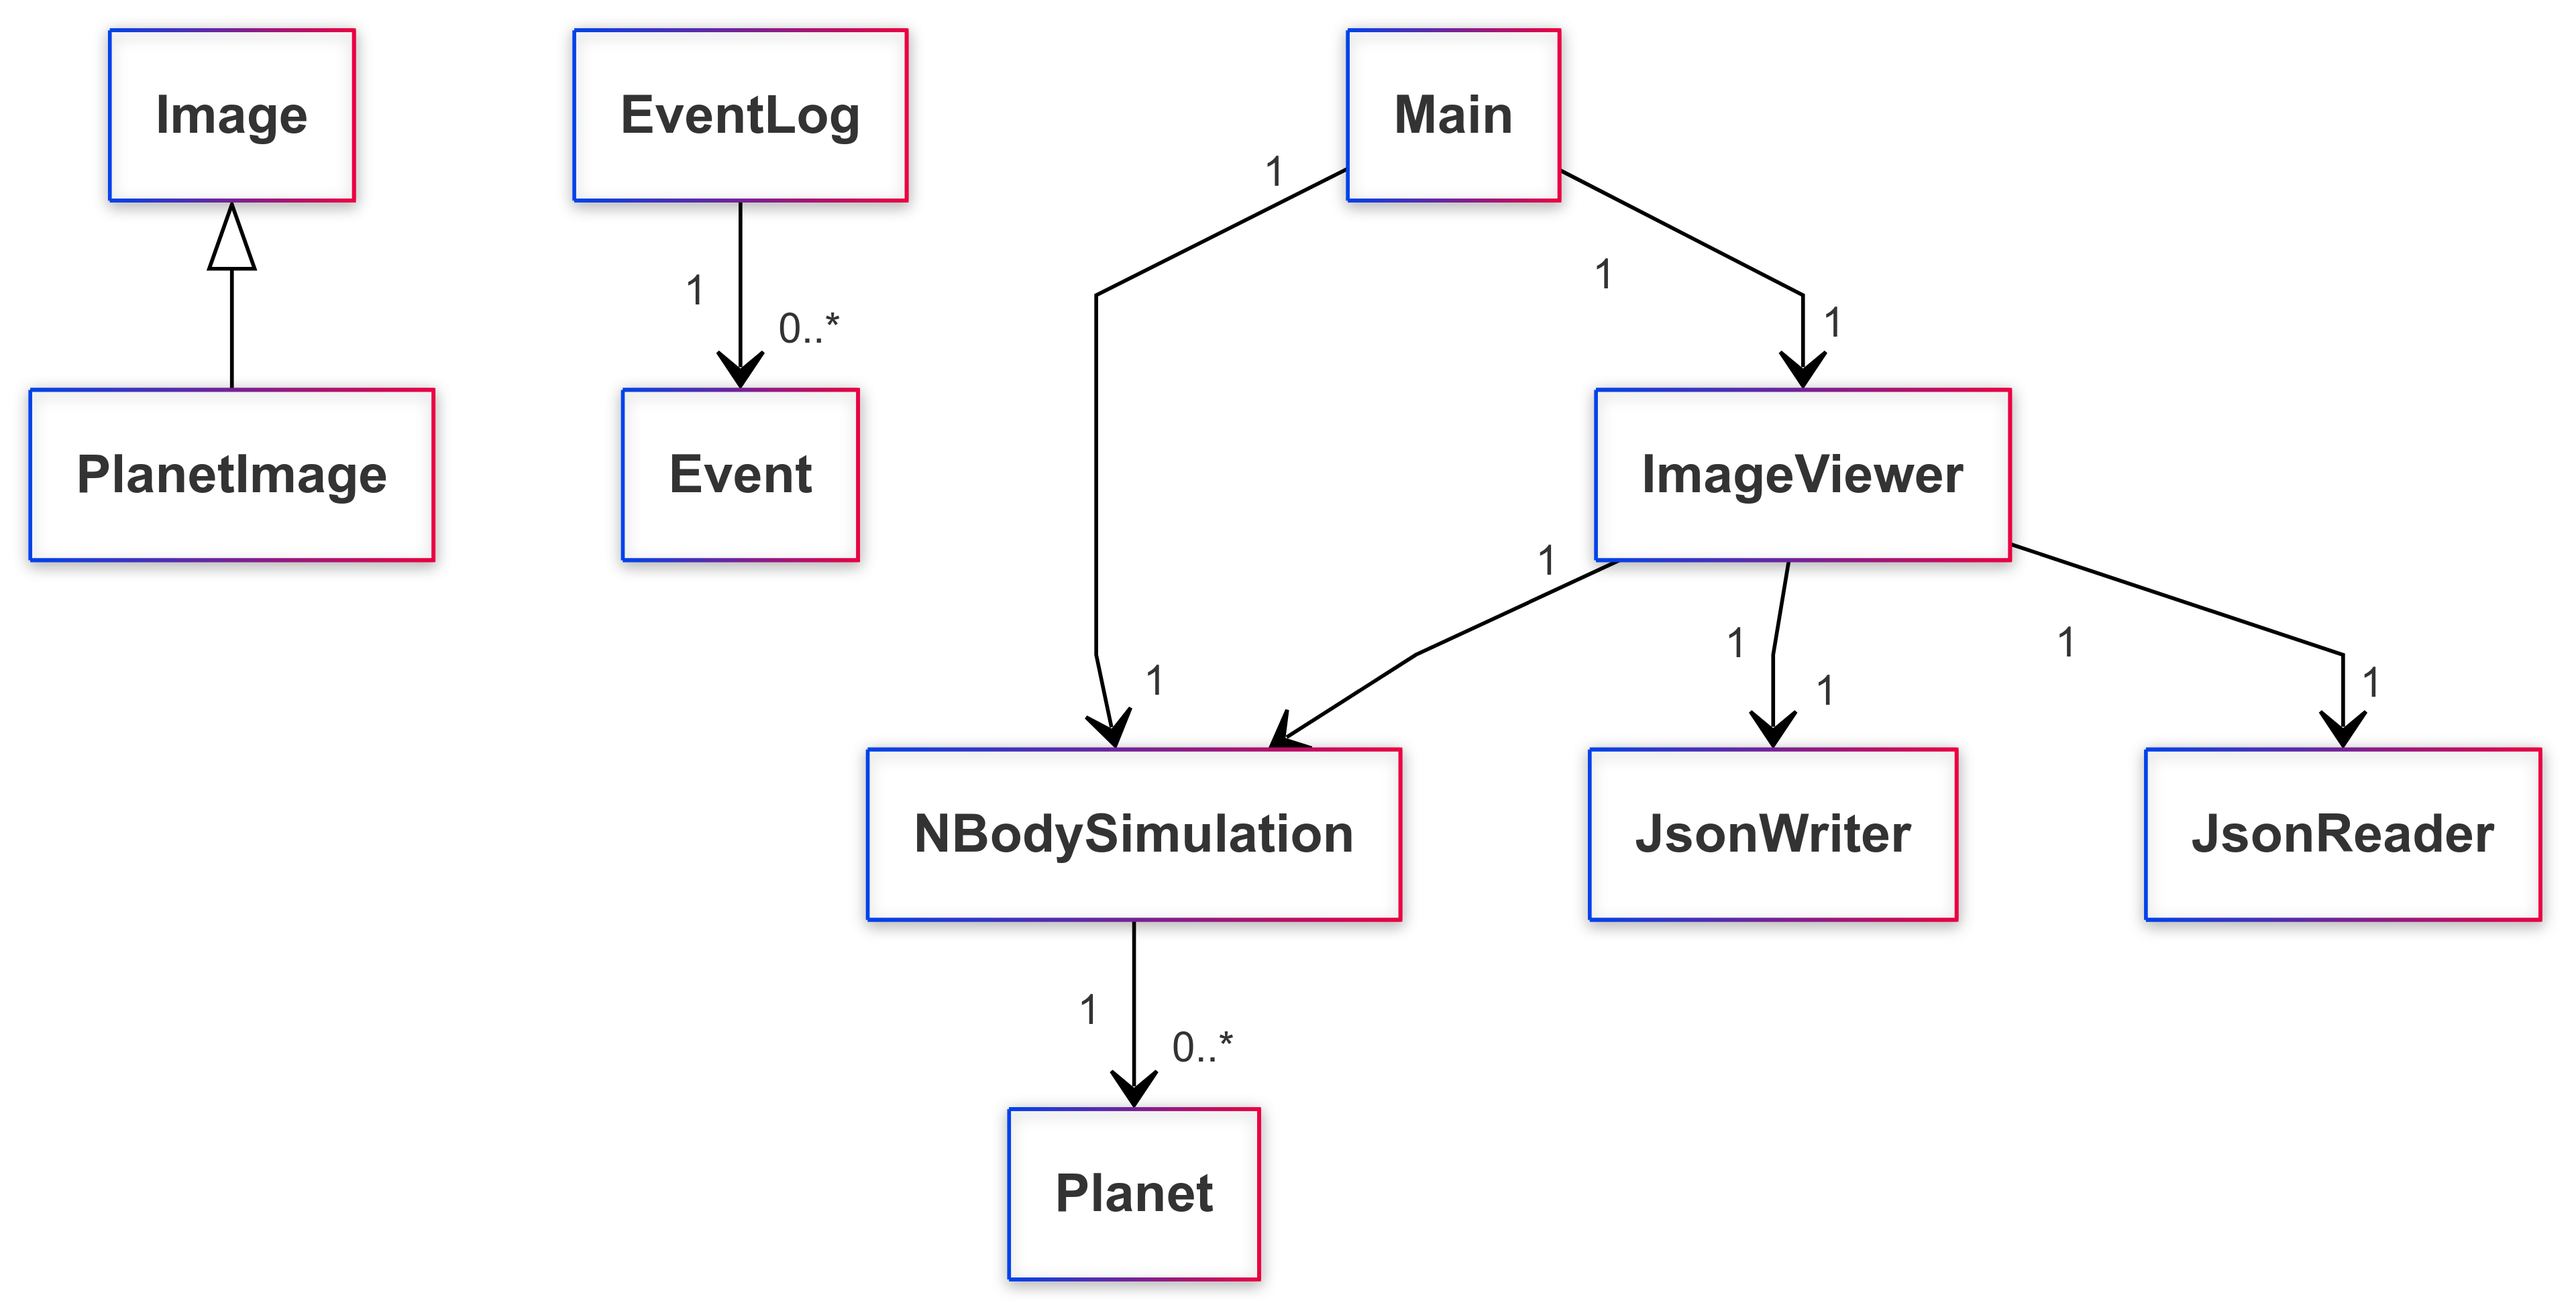
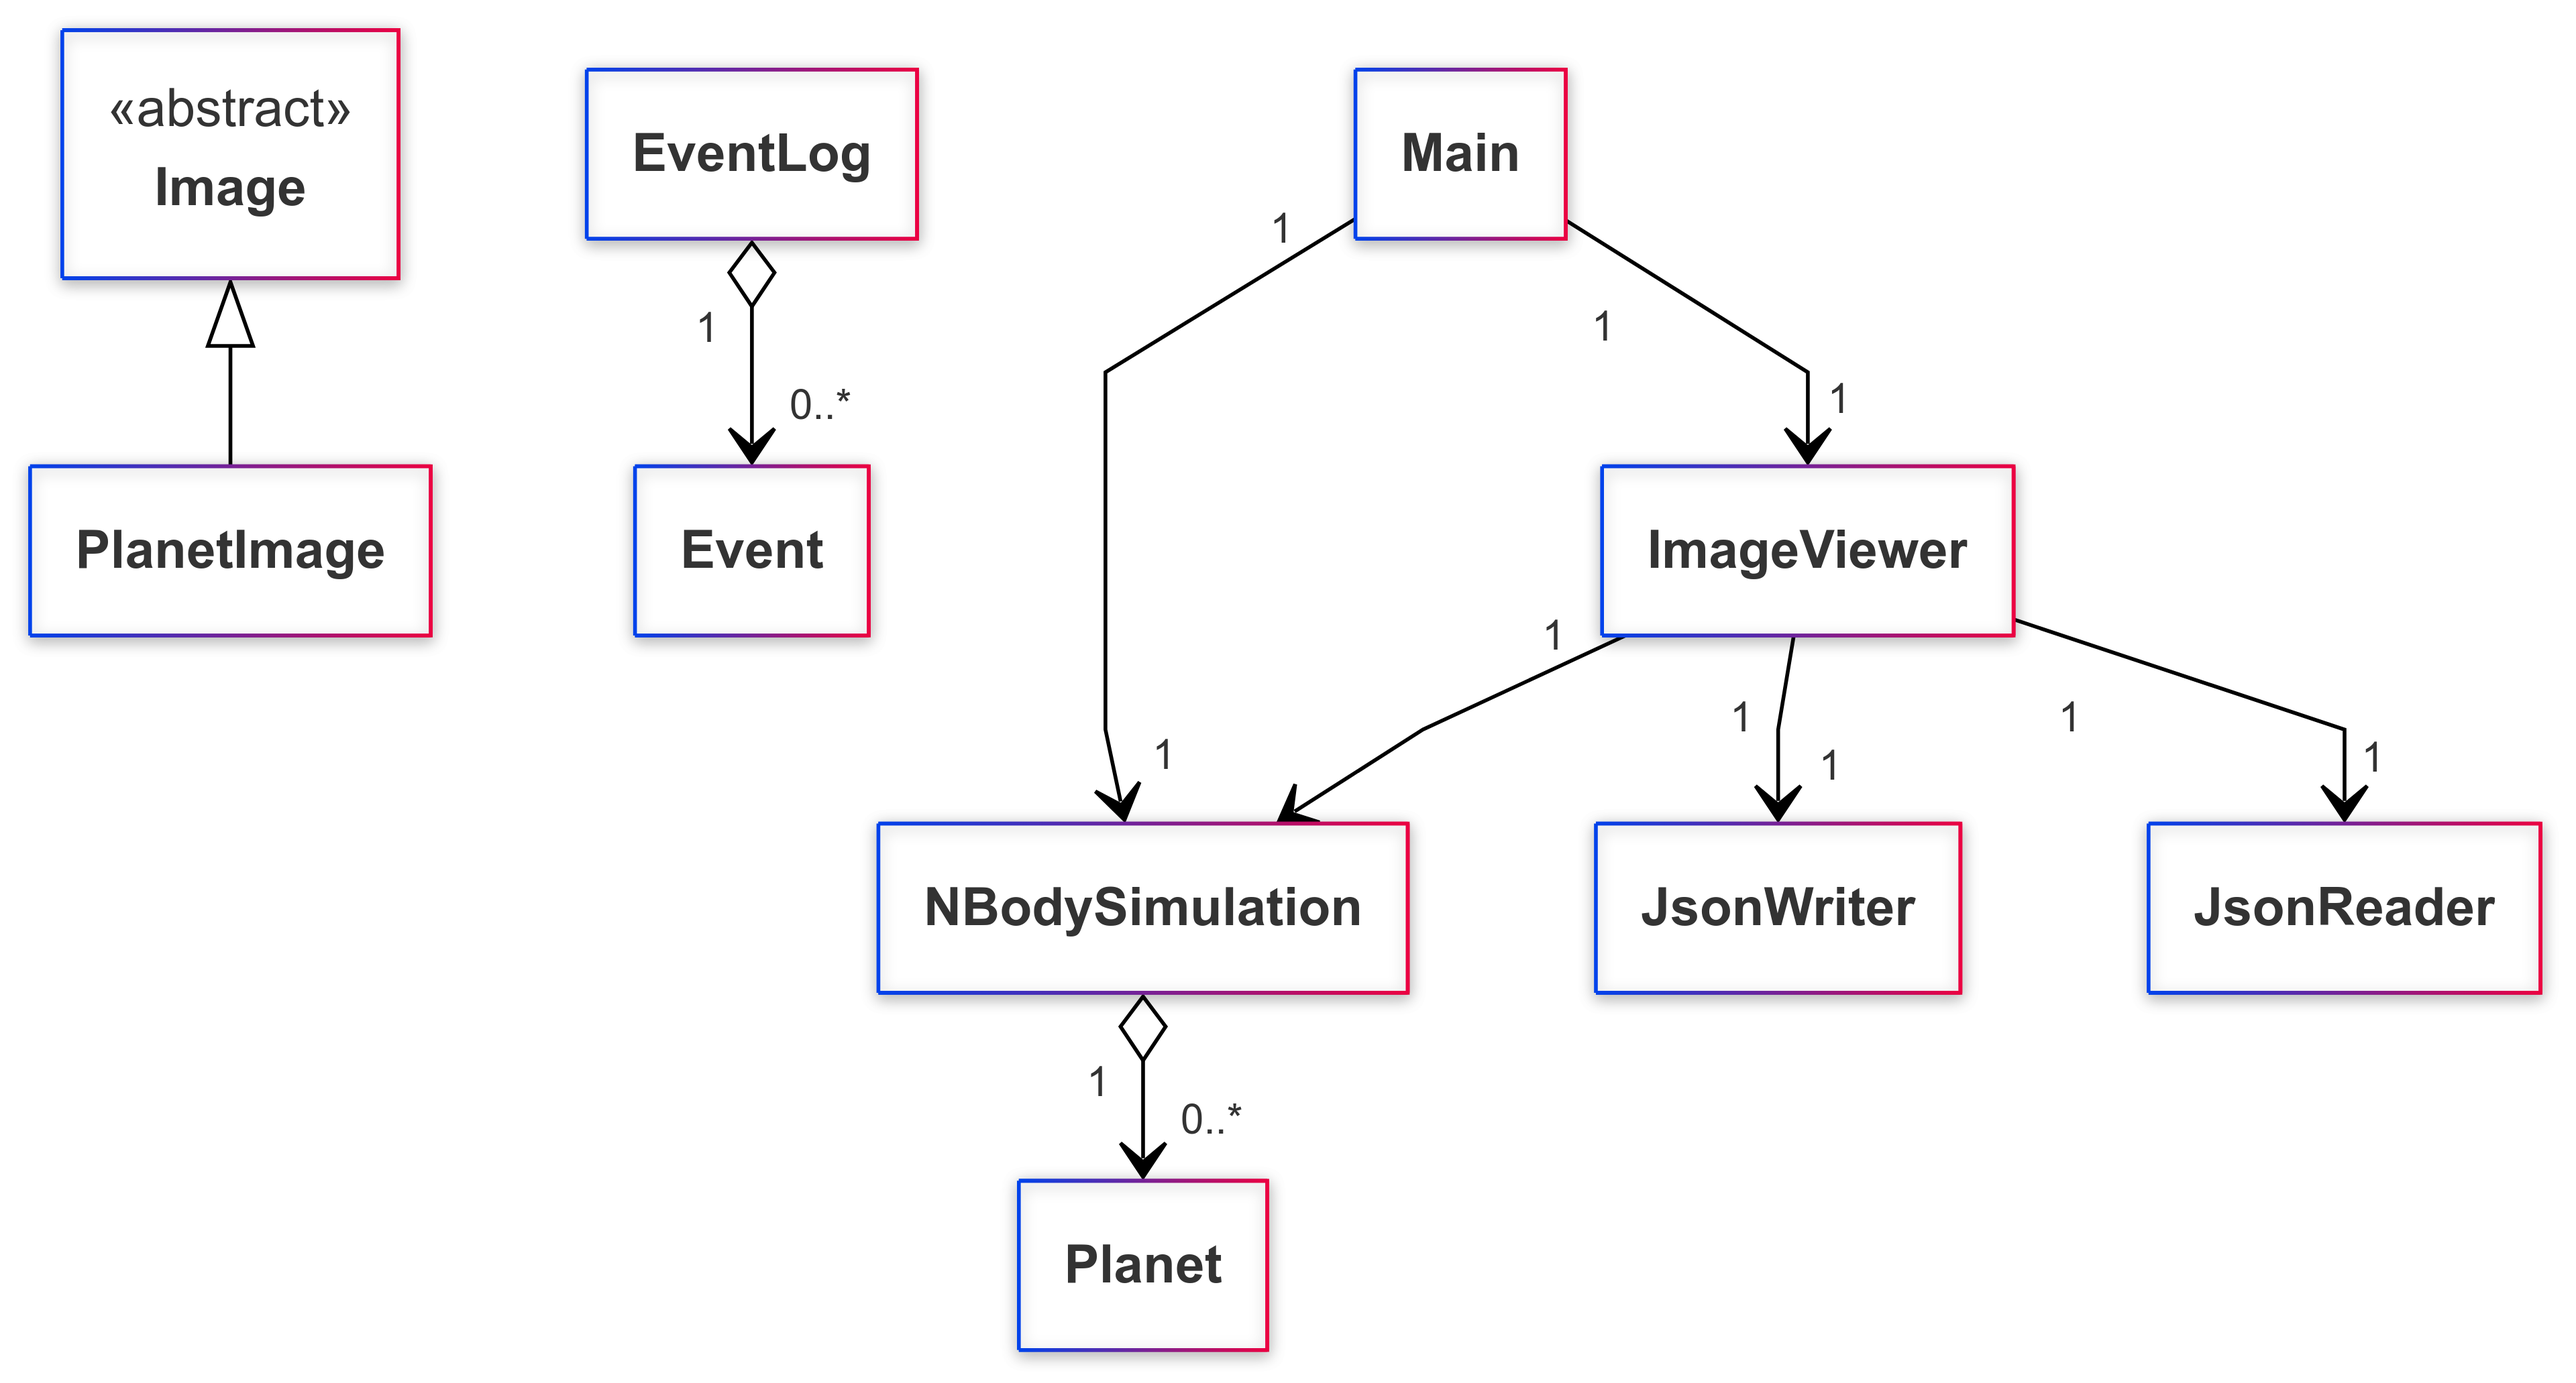
Phase 4: Task 3 Updated UML diagram

diff --git a/README.md b/README.md
@@ -37,3 +37,7 @@
 - A planet was added
 - Planets ticked
 - Program saved
+
+Phase 4: Task 3
+
+There are a few changes I could make to my program to refactor it. For instance, JsonWriter and JsonReader are both used by ImageViewer and they have similar sorts of methods and constants, so I could combine these into one class. This new class would be called something like "JsonUser", and would handle both the writing and reading of the Json file. This way, the varibles source (in JsonReader) and destination (in JsonWriter) could be combined into a new varible called "fileDirectory". In addition, ImageViewer would only have to instantiate one JsonUser instead of one JsonReader and JsonWriter. In addition, this refactoring would make ImageViewer more straightforwards because it only has to deal with one object whoes goal is data persistance. These are some reasons why I think this refactoring could be benificial for the program.
